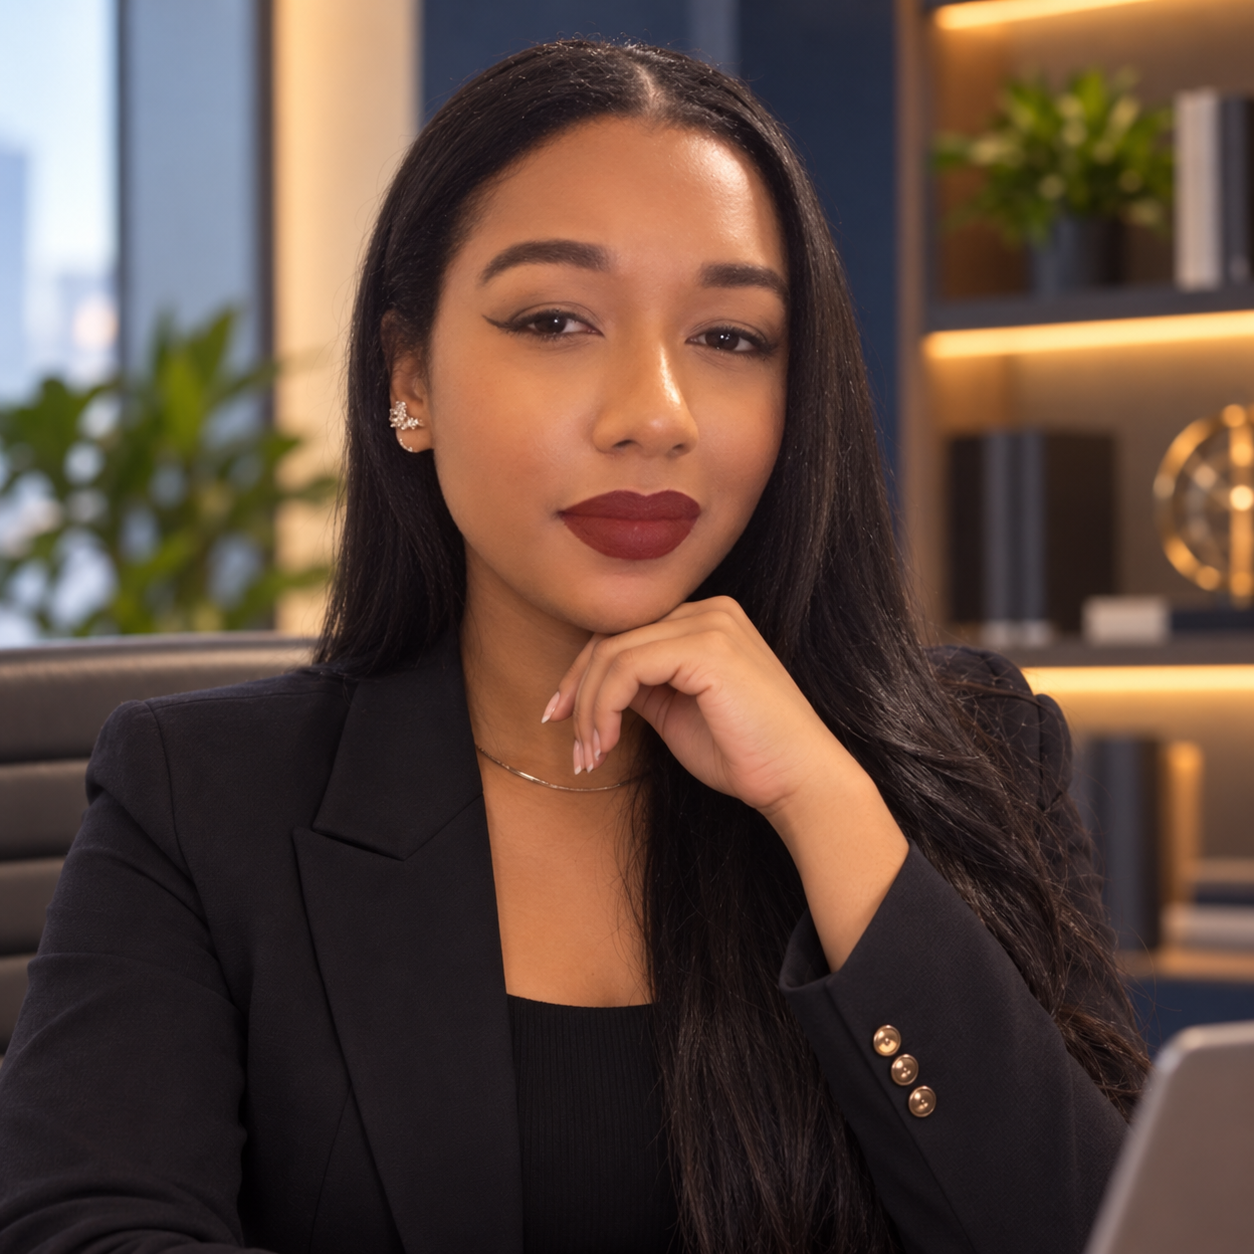
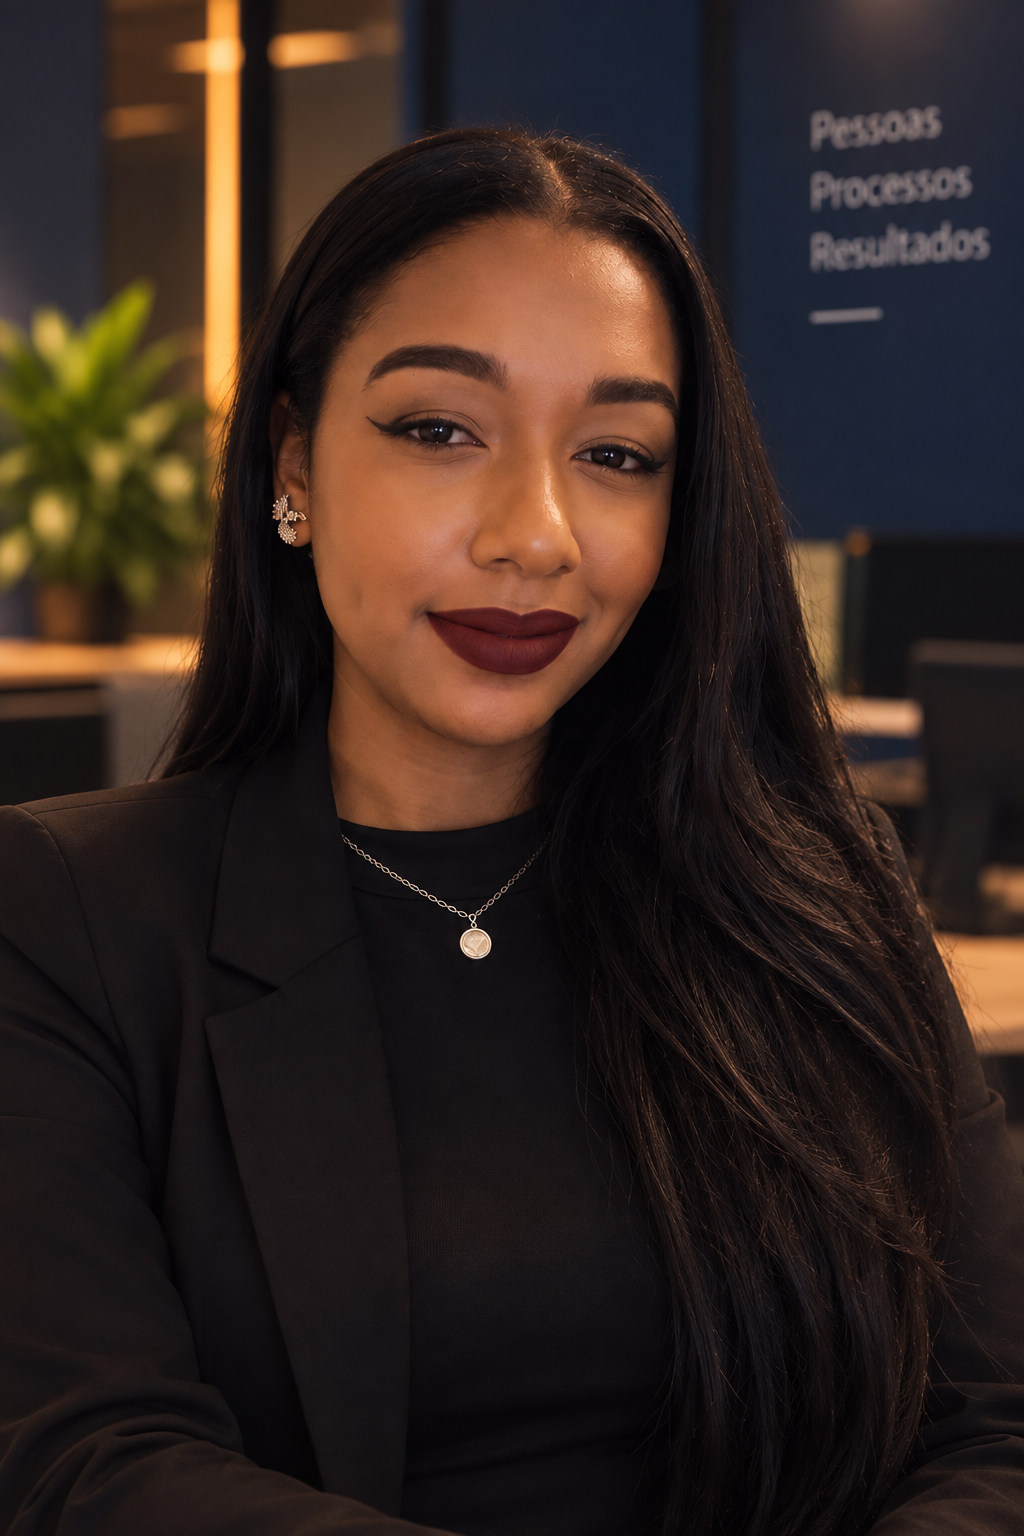
feat: update linkedin link in footer

diff --git a/src/components/footer.tsx b/src/components/footer.tsx
@@ -1,6 +1,15 @@
 import { ArrowUpRight } from "@untitledui/icons";
+
 import { Logo } from "./ui";
+
 import type { Copy } from "../locales";
+
+export const instagramLink =
+  import.meta.env.VITE_INSTAGRAM ?? "https://www.instagram.com/nordionconsultoria/";
+
+export const linkedinLink =
+  import.meta.env.VITE_LINKEDIN ?? "https://www.linkedin.com/in/nordion-consultoria/";
+
 export function Footer({
   t,
   onInfo,
@@ -16,53 +25,81 @@ export function Footer({
         <div className="footer-grid">
           <div>
             <Logo />
+
             <p>{t.footerText}</p>
+
             <span className="location">
               <span className="live-dot" />
               {t.location}
             </span>
           </div>
+
           <div>
             <h3>{t.nav[2]}</h3>
+
             {t.services.slice(0, 3).map(([title]) => (
               <span className="footer-item" key={title}>
                 {title}
               </span>
             ))}
           </div>
+
           <div>
             <h3>{t.company}</h3>
+
             <span className="footer-item">{t.aboutLabel}</span>
+
             <span className="footer-item">{t.heroNote}</span>
           </div>
+
           <div>
             <h3>{t.nav[5]}</h3>
+
             <a
               className="footer-item"
               href="mailto:nordinconsultoria@gmail.com"
             >
               nordinconsultoria@gmail.com
             </a>
+
             <a
               className="footer-item"
-              href="https://www.instagram.com/nordionconsultoria/"
+              href={instagramLink}
               target="_blank"
               rel="noopener noreferrer"
             >
               Instagram <ArrowUpRight size={14} />
             </a>
+
+            {linkedinLink && (
+              <a
+                className="footer-item"
+                href={linkedinLink}
+                target="_blank"
+                rel="noopener noreferrer"
+              >
+                LinkedIn <ArrowUpRight size={14} />
+              </a>
+            )}
             <button onClick={onContact}>
               {t.ctaPrimary} <ArrowUpRight size={14} />
             </button>
           </div>
         </div>
+
         <div className="footer-bottom">
           <span>
             © {new Date().getFullYear()} Nordion. {t.rights}
           </span>
+
           <div>
-            <button onClick={() => onInfo("privacy")}>{t.privacy}</button>
-            <button onClick={() => onInfo("terms")}>{t.terms}</button>
+            <button onClick={() => onInfo("privacy")}>
+              {t.privacy}
+            </button>
+
+            <button onClick={() => onInfo("terms")}>
+              {t.terms}
+            </button>
           </div>
         </div>
       </div>
